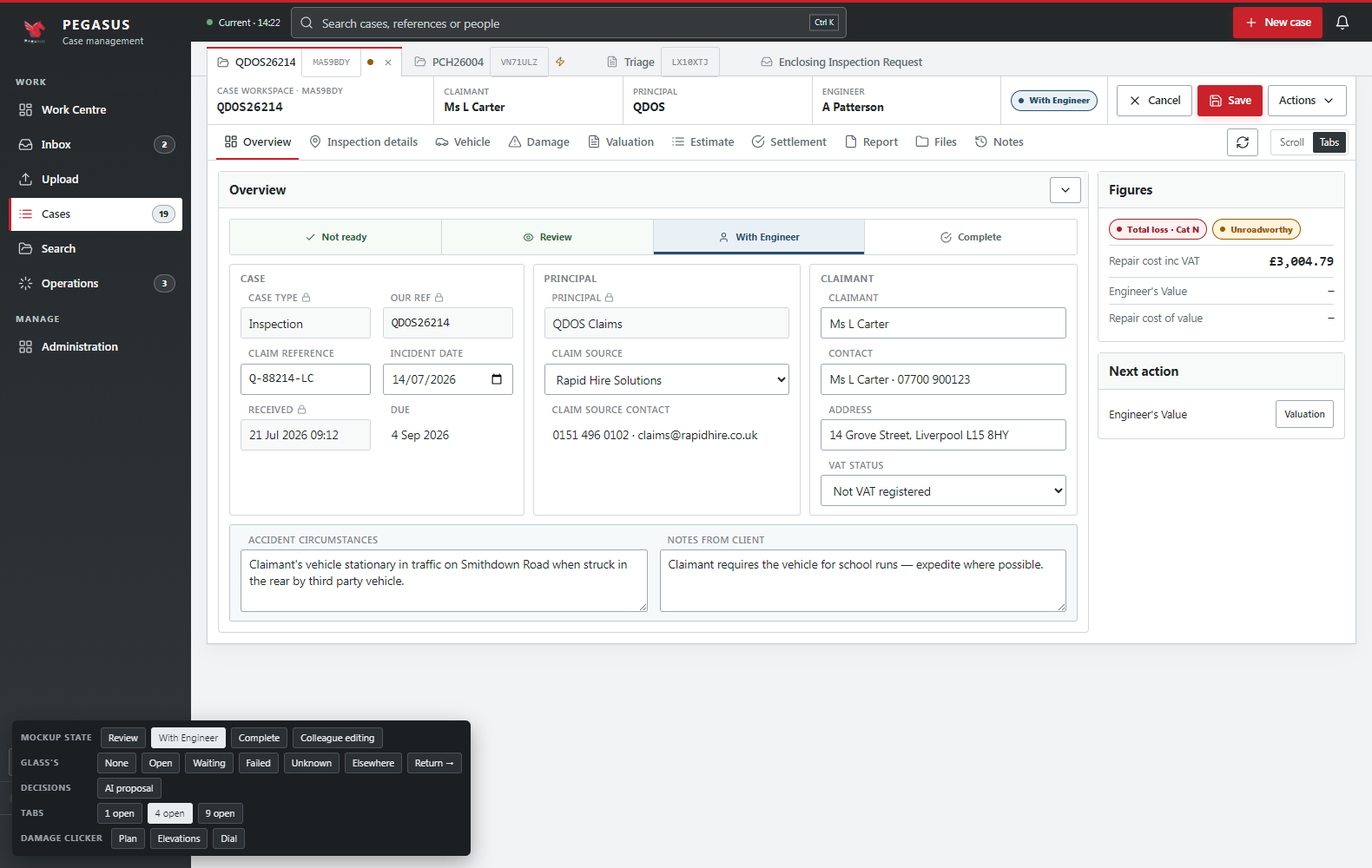
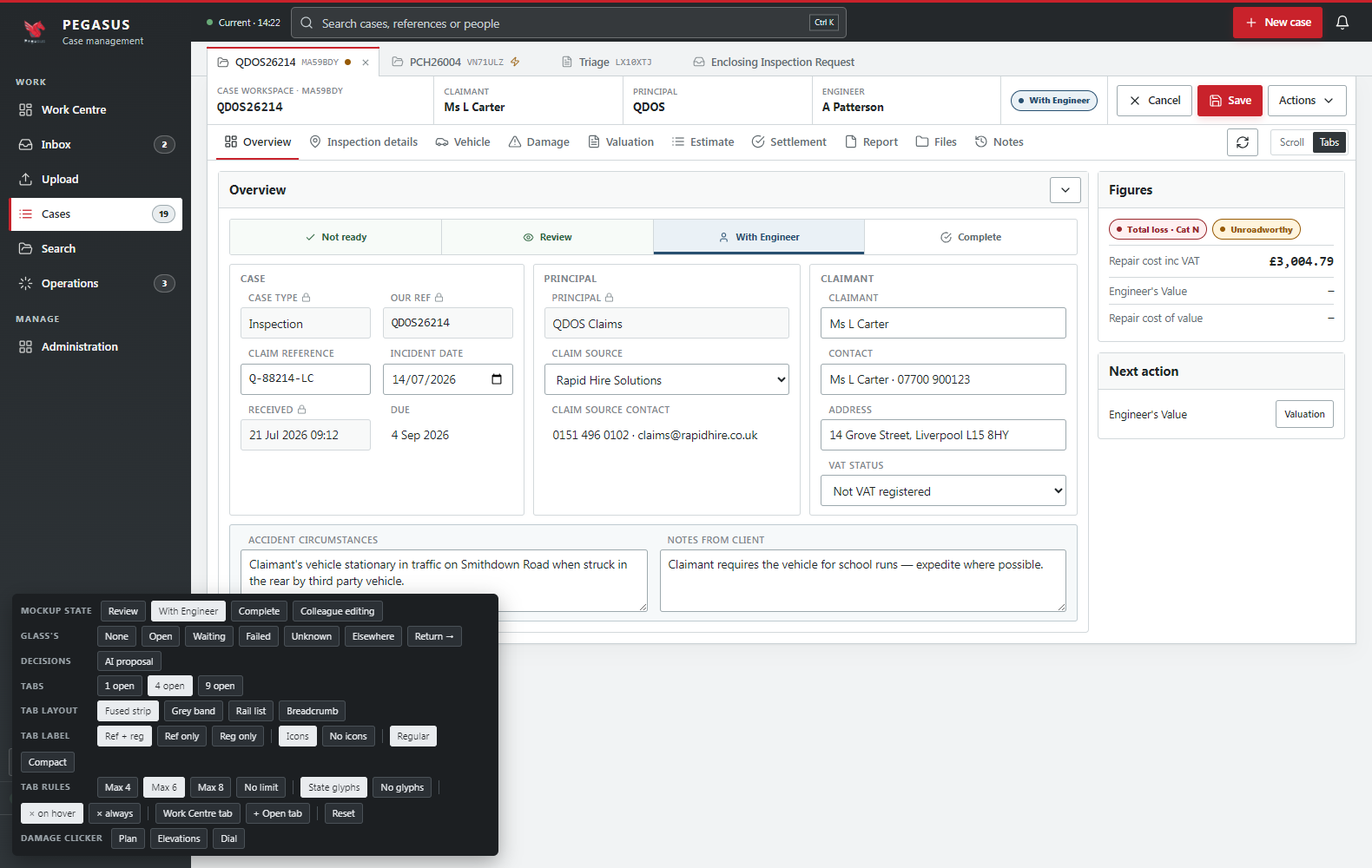
v26 mockup: every tab-strip decision as a strip variable
Layout (fused, grey band, rail list, breadcrumb), label, icons, density,
visible count, state glyphs, close behaviour, Work Centre and Open tabs
are options on the mockup strip of both files, shared through storage
and reachable as ?tabopt=. Self-checks 252/252 and 124/124.

Claude-Session: https://claude.ai/code/session_01UkoyKWmZrjt4TF9nQwnQSs

Changed region(s): [[0.0, 0.682, 0.3722, 1.0], [0.2171, 0.062, 0.6823, 0.093]]

diff --git a/case-workspace-v25-mockup/pegasus_case_workspace_v26.html b/case-workspace-v25-mockup/pegasus_case_workspace_v26.html
@@ -87,7 +87,7 @@ strong{font-weight:650}
 .workspace-tab.is-active::before,.workspace-tab[aria-current="page"]::before{content:"";position:absolute;left:-1px;right:-1px;top:-1px;height:2px;background:var(--red);border-radius:4px 4px 0 0}
 .workspace-tab>.icon{width:14px;height:14px;flex:none;opacity:.75}
 .workspace-tab .ref{font-weight:600;overflow:hidden;text-overflow:ellipsis}
-.workspace-tab .sub{font:500 11px var(--mono);color:var(--quiet);overflow:hidden;text-overflow:ellipsis}
+.workspace-tab .reg{font:500 11px var(--mono);color:var(--quiet);overflow:hidden;text-overflow:ellipsis}
 .workspace-tab .st{flex:none}
 .workspace-tab .st--dirty{width:7px;height:7px;border-radius:50%;background:var(--amber)}
 .workspace-tab .st--glass{width:12px;height:12px;color:var(--amber);opacity:1}
@@ -137,6 +137,67 @@ body.has-viewer .mock{display:none}
 .th .th-view{position:absolute;top:4px;right:26px;width:17px;height:17px;border-radius:3px;border:0;background:rgba(255,255,255,.92);color:var(--ink);display:none;place-items:center;padding:0;cursor:pointer}
 .th .th-view .icon{width:11px;height:11px}
 body.is-editing #thumbs .th:hover .th-view{display:grid}
+
+/* ---- Tab strip options (mockup variables) ---- */
+.workspace-tabs[data-place="band"]{background:var(--surface-3);border-bottom:1px solid var(--line)}
+.workspace-tabs[data-place="band"] .workspace-tab{background:var(--surface-2);border-color:var(--line);color:var(--muted)}
+.workspace-tabs[data-place="band"] .workspace-tab.is-active,.workspace-tabs[data-place="band"] .workspace-tab[aria-current="page"]{background:var(--surface);border-top:2px solid var(--red);margin-bottom:0;height:33px}
+.workspace-tabs[data-place="band"] .workspace-tab.is-active::before,.workspace-tabs[data-place="band"] .workspace-tab[aria-current="page"]::before{display:none}
+body[data-tabs-place="band"] .app-main,body[data-tabs-place="crumb"] .app-main,body[data-tabs-place="rail"] .app-main{padding-top:var(--page-pad)}
+body[data-tabs-place="band"] .record,body[data-tabs-place="crumb"] .record,body[data-tabs-place="rail"] .record{border-top:1px solid #cbd2d5}
+.workspace-tabs[data-density="compact"]{padding-top:9px}
+.workspace-tabs[data-density="compact"] .workspace-tab{height:27px;font-size:12px;padding:0 4px 0 9px;gap:6px}
+.workspace-tabs[data-density="compact"] .workspace-tab.is-active,.workspace-tabs[data-density="compact"] .workspace-tab[aria-current="page"]{height:28px}
+.workspace-tabs[data-density="compact"] .workspace-tab .reg{font-size:10.5px}
+.workspace-tabs[data-close="always"] .workspace-tab .tab-close{visibility:visible}
+.workspace-tab--open{color:var(--quiet)}
+.rail-open{margin:0 8px 6px 14px;display:grid;gap:1px}
+.rail-open[hidden]{display:none}
+.rail-open a{display:grid;grid-template-columns:14px minmax(0,1fr) auto auto;column-gap:6px;align-items:center;padding:4px 6px 4px 8px;border-radius:var(--radius);color:var(--nav-muted);font-size:12px;border-left:2px solid transparent;min-width:0;line-height:1.25}
+.rail-open a>.icon{grid-column:1;grid-row:1/3}
+.rail-open .ref{grid-column:2;grid-row:1}
+.rail-open .reg{grid-column:2;grid-row:2;font-size:10.5px}
+.rail-open a>.st{grid-column:3;grid-row:1/3;margin-left:0}
+.rail-open .tab-close{grid-column:4;grid-row:1/3}
+.rail-open a:hover{background:rgba(255,255,255,.08);color:var(--nav-text);text-decoration:none}
+.rail-open a.is-active,.rail-open a[aria-current="page"]{color:var(--nav-text);background:rgba(255,255,255,.1);border-left-color:var(--red)}
+.rail-open .icon{width:12px;height:12px;opacity:.7;flex:none}
+.rail-open .ref{font-weight:600;overflow:hidden;text-overflow:ellipsis;white-space:nowrap}
+.rail-open .reg{font:500 10.5px var(--mono);opacity:.7;white-space:nowrap}
+.rail-open .st{margin-left:auto;flex:none}
+.rail-open .st--dirty{width:7px;height:7px;border-radius:50%;background:#e0a144}
+.rail-open .st--glass{color:#e0a144;opacity:1}
+.rail-open .st--held{opacity:.8}
+.rail-open .tab-close{display:grid;place-items:center;width:18px;height:18px;border:0;background:transparent;border-radius:2px;color:var(--nav-muted);padding:0;visibility:hidden;cursor:pointer;flex:none}
+.rail-open a:hover .tab-close,.rail-open a.is-active .tab-close,.rail-open a[aria-current="page"] .tab-close{visibility:visible}
+.rail-open .tab-close .icon{width:11px;height:11px;opacity:1}
+.rail-open .tab-close:hover{background:rgba(255,255,255,.15);color:#fff}
+.rail-collapsed .rail-open{display:none}
+.workspace-tabs[data-place="crumb"]{align-items:center;padding:0 var(--page-pad);background:var(--bg);border-bottom:1px solid var(--line)}
+.crumb{display:flex;align-items:center;gap:8px;font-size:13px;color:var(--muted)}
+.crumb>a{color:var(--muted)}
+.crumb>a:hover{color:var(--ink)}
+.crumb .sep{color:var(--quiet)}
+.crumb .count{font-size:11px;color:var(--quiet);margin-left:4px}
+.crumb-menu{position:relative}
+.crumb-menu summary{list-style:none;display:flex;align-items:center;gap:7px;cursor:pointer;color:var(--ink);padding:4px 8px;border-radius:var(--radius);border:1px solid transparent}
+.crumb-menu summary::-webkit-details-marker{display:none}
+.crumb-menu summary:hover,.crumb-menu[open] summary{border-color:var(--line);background:var(--surface)}
+.crumb-menu summary .ref{font-weight:600}
+.crumb-menu summary .reg{font:500 11px var(--mono);color:var(--quiet)}
+.crumb-menu summary>.icon{width:13px;height:13px;color:var(--quiet)}
+.crumb-menu summary .st--dirty{width:7px;height:7px;border-radius:50%;background:var(--amber);display:inline-block}
+.crumb-menu summary .st--glass{width:12px;height:12px;color:var(--amber)}
+.crumb-menu summary .st--held{width:12px;height:12px;color:var(--quiet)}
+.crumb-menu .menu{position:absolute;top:34px;left:0;min-width:260px;background:var(--surface);border:1px solid var(--line);border-radius:var(--radius-lg);box-shadow:var(--shadow);padding:4px;z-index:40}
+.crumb-menu .menu a,.tabs-more .menu a{display:flex;align-items:center;gap:8px;padding:7px 9px;border-radius:var(--radius);color:var(--ink);font-size:12.5px;white-space:nowrap}
+.crumb-menu .menu a:hover{background:var(--surface-2);text-decoration:none}
+.crumb-menu .menu .icon,.tabs-more .menu .icon{width:14px;height:14px;color:var(--quiet)}
+.crumb-menu .menu .st,.tabs-more .menu .st{margin-left:auto}
+.crumb-menu .menu .st--dirty,.tabs-more .menu .st--dirty{width:7px;height:7px;border-radius:50%;background:var(--amber)}
+.crumb-menu .menu .st--glass,.tabs-more .menu .st--glass{color:var(--amber)}
+.mock .mrow .sep{width:1px;height:16px;background:#4a5157;margin:0 2px}
+.mock .mrow b.sub{min-width:0;margin-left:2px;color:#7d878c}
 .app-main{min-width:0;flex:1;padding:var(--page-pad);padding-bottom:50px}
 .content{width:min(100%,var(--content-max));margin-inline:auto;min-width:0}
 
@@ -990,6 +1051,9 @@ body.is-editing .case-section:not(.is-locked) .cluster.calc-only{display:flex}
   <div class="mrow"><b>Glass's</b><button data-g="none" class="on" onclick="setGlass('none')">None</button><button data-g="open" onclick="setGlass('open')">Open</button><button data-g="waiting" onclick="setGlass('waiting')">Waiting</button><button data-g="failed" onclick="setGlass('failed')">Failed</button><button data-g="unknown" onclick="setGlass('unknown')">Unknown</button><button data-g="elsewhere" onclick="setGlass('elsewhere')">Elsewhere</button><button onclick="glassReturn()">Return →</button></div>
   <div class="mrow"><b>Decisions</b><button id="mockProp" onclick="toggleProposal()">AI proposal</button></div>
   <div class="mrow"><b>Tabs</b><button data-tabs="1" onclick="mockTabs(1)">1 open</button><button data-tabs="4" onclick="mockTabs(4)">4 open</button><button data-tabs="9" onclick="mockTabs(9)">9 open</button></div>
+  <div class="mrow"><b>Tab layout</b><button data-o="place:fused" onclick="setTabOpt('place','fused')">Fused strip</button><button data-o="place:band" onclick="setTabOpt('place','band')">Grey band</button><button data-o="place:rail" onclick="setTabOpt('place','rail')">Rail list</button><button data-o="place:crumb" onclick="setTabOpt('place','crumb')">Breadcrumb</button></div>
+  <div class="mrow"><b>Tab label</b><button data-o="label:both" onclick="setTabOpt('label','both')">Ref + reg</button><button data-o="label:ref" onclick="setTabOpt('label','ref')">Ref only</button><button data-o="label:reg" onclick="setTabOpt('label','reg')">Reg only</button><span class="sep"></span><button data-o="icons:1" onclick="setTabOpt('icons','1')">Icons</button><button data-o="icons:0" onclick="setTabOpt('icons','0')">No icons</button><span class="sep"></span><button data-o="density:regular" onclick="setTabOpt('density','regular')">Regular</button><button data-o="density:compact" onclick="setTabOpt('density','compact')">Compact</button></div>
+  <div class="mrow"><b>Tab rules</b><button data-o="max:4" onclick="setTabOpt('max','4')">Max 4</button><button data-o="max:6" onclick="setTabOpt('max','6')">Max 6</button><button data-o="max:8" onclick="setTabOpt('max','8')">Max 8</button><button data-o="max:0" onclick="setTabOpt('max','0')">No limit</button><span class="sep"></span><button data-o="glyphs:1" onclick="setTabOpt('glyphs','1')">State glyphs</button><button data-o="glyphs:0" onclick="setTabOpt('glyphs','0')">No glyphs</button><span class="sep"></span><button data-o="close:hover" onclick="setTabOpt('close','hover')">× on hover</button><button data-o="close:always" onclick="setTabOpt('close','always')">× always</button><span class="sep"></span><button data-o="wc:1" onclick="setTabOpt('wc',+TABOPT.wc?0:1)">Work Centre tab</button><button data-o="open:1" onclick="setTabOpt('open',+TABOPT.open?0:1)">+ Open tab</button><span class="sep"></span><button onclick="resetTabOpt()">Reset</button></div>
   <div class="mrow"><b>Damage clicker</b><button data-dv="plan" onclick="setDamageVariant('plan')">Plan</button><button data-dv="side" onclick="setDamageVariant('side')">Elevations</button><button data-dv="dial" onclick="setDamageVariant('dial')">Dial</button></div>
 </div>
 <div class="viewer" id="viewer" hidden role="dialog" aria-modal="true" aria-label="Image viewer" tabindex="-1">
@@ -1325,7 +1389,7 @@ function decTouch(k){REVIEWED[k]=true;}
 function dismissable(){document.querySelectorAll('.notice,#staleBar').forEach(n=>{if(n.dataset.dismiss)return;n.dataset.dismiss='1';const b=document.createElement('button');b.type='button';b.className='dismiss';b.setAttribute('aria-label','Dismiss');b.innerHTML='<svg class="icon"><use href="#icon-x"/></svg>';b.onclick=()=>{n.hidden=true;n.classList.remove('show');measure();};n.appendChild(b);});}
 
 /* ================= query-string presets (screenshots only) ================= */
-function applyQuery(){const q=new URLSearchParams(location.search);if(q.get('state'))setState(q.get('state'));if(q.get('layout'))setLayout(q.get('layout'),true);if(q.get('edit')==='1')startEdit();if(q.get('ev')==='1')applyAdj();if(q.get('proposal')==='1')toggleProposal();if(q.get('glass')==='return')glassReturn();else if(q.get('glass'))setGlass(q.get('glass'));if(q.get('closeopen')==='1'){const c=$('glassClose');if(c)c.open=true;}if(q.get('expand')==='1')toggleExpand();if(q.get('collapse'))q.get('collapse').split(',').forEach(k=>{const b=document.querySelector('#section-'+k+' .sec-collapse');if(b)toggleSection(b);});if(q.get('tabs'))mockTabs(+q.get('tabs'));if(q.get('clicker'))setDamageVariant(q.get('clicker'));if(q.get('viewer'))openViewer(+q.get('viewer'));if(q.get('section'))jumpTo(q.get('section'));}
+function applyQuery(){const q=new URLSearchParams(location.search);if(q.get('state'))setState(q.get('state'));if(q.get('layout'))setLayout(q.get('layout'),true);if(q.get('edit')==='1')startEdit();if(q.get('ev')==='1')applyAdj();if(q.get('proposal')==='1')toggleProposal();if(q.get('glass')==='return')glassReturn();else if(q.get('glass'))setGlass(q.get('glass'));if(q.get('closeopen')==='1'){const c=$('glassClose');if(c)c.open=true;}if(q.get('expand')==='1')toggleExpand();if(q.get('collapse'))q.get('collapse').split(',').forEach(k=>{const b=document.querySelector('#section-'+k+' .sec-collapse');if(b)toggleSection(b);});if(q.get('tabs'))mockTabs(+q.get('tabs'));if(q.get('tabopt'))q.get('tabopt').split(',').forEach(kv=>{const [k,v]=kv.split(':');setTabOpt(k,v);});if(q.get('clicker'))setDamageVariant(q.get('clicker'));if(q.get('viewer'))openViewer(+q.get('viewer'));if(q.get('section'))jumpTo(q.get('section'));}
 
 function shellSearch(f){window.location.href='pegasus_shell_v26.html#/search?ref='+encodeURIComponent(f.querySelector('input').value);return false;}
 /* ---- synthetic evidence previews (mockup only: there are no real files) ---- */
@@ -1357,17 +1421,36 @@ $('viewer').addEventListener('click',e=>{if(e.target===$('viewer'))closeViewer()
 /* ================= working set (tabs) ================= */
 const SHELL_PAGE='pegasus_shell_v26.html';
 const ME={id:'c99',kind:'case',ref:'QDOS26214',sub:'MA59BDY',route:'/cases/c99'};
-const TAB_ICON={case:'folder-open',triage:'file-text',unidentified:'alert-circle',image:'image',message:'inbox'};
+const TAB_ICON={case:'folder-open',triage:'file-text',unidentified:'alert-circle',image:'image',message:'inbox',wc:'layout-dashboard',open:'plus'};
+const TABOPT_DEFAULT={place:'fused',label:'both',max:6,glyphs:1,close:'hover',wc:0,open:0,density:'regular',icons:1};
+let TABOPT=Object.assign({},TABOPT_DEFAULT);try{Object.assign(TABOPT,JSON.parse(localStorage.getItem('v26.tabopt')||'{}'));}catch{}
+function setTabOpt(k,v){TABOPT[k]=v;localStorage.setItem('v26.tabopt',JSON.stringify(TABOPT));renderTabs();}
+function resetTabOpt(){TABOPT=Object.assign({},TABOPT_DEFAULT);localStorage.removeItem('v26.tabopt');renderTabs();}
 function readOpen(){try{const a=JSON.parse(localStorage.getItem('v26.open')||'null');if(Array.isArray(a)&&a.length)return a;}catch{}return [ME];}
 function writeOpen(a){localStorage.setItem('v26.open',JSON.stringify(a));}
 function tabState(t){if(t.id!==ME.id)return t.state||'';if(STATE==='colleague')return 'held';if(EDITING)return 'dirty';if(GLASS.state==='open'||GLASS.state==='waiting')return 'glass';return '';}
-function renderTabs(){let a=readOpen();if(!a.some(t=>t.id===ME.id))a=[ME,...a];const max=6;const shown=a.slice(0,max),more=a.slice(max);
-  const st=t=>{const s=tabState(t);return s==='dirty'?'<i class="st st--dirty" title="Unsaved changes"></i>':s==='glass'?'<svg class="icon st st--glass"><title>Glass\'s open</title><use href="#icon-zap"/></svg>':s==='held'?'<svg class="icon st st--held"><title>Held elsewhere</title><use href="#icon-lock"/></svg>':'';};
-  const ic=t=>`<svg class="icon"><use href="#icon-${TAB_ICON[t.kind]||'folder'}"/></svg>`;
-  const tab=t=>`<a class="workspace-tab${t.id===ME.id?' is-active':''}" href="${t.id===ME.id?'#':SHELL_PAGE+'#'+t.route}" data-id="${t.id}"${t.id===ME.id?' aria-current="page"':''}>${ic(t)}<span class="ref">${t.ref}</span>${t.sub?`<span class="sub">${t.sub}</span>`:''}${st(t)}<button type="button" class="tab-close" onclick="closeTab('${t.id}',event)" aria-label="Close ${t.ref}"><svg class="icon"><use href="#icon-x"/></svg></button></a>`;
-  $('tabs').innerHTML=shown.map(tab).join('')+(more.length?`<details class="tabs-more"><summary>${more.length} more<svg class="icon"><use href="#icon-chevron-down"/></svg></summary><div class="menu">${more.map(t=>`<a href="${SHELL_PAGE}#${t.route}" data-id="${t.id}">${ic(t)}<span>${t.ref}${t.sub?' · '+t.sub:''}</span></a>`).join('')}</div></details>`:'');}
+function tabGlyph(t){if(!+TABOPT.glyphs)return '';const s=tabState(t);return s==='dirty'?'<i class="st st--dirty" title="Unsaved changes"></i>':s==='glass'?'<svg class="icon st st--glass"><title>Glass\'s open</title><use href="#icon-zap"/></svg>':s==='held'?'<svg class="icon st st--held"><title>Held elsewhere</title><use href="#icon-lock"/></svg>':'';}
+function tabIcon(t){return +TABOPT.icons?`<svg class="icon"><use href="#icon-${TAB_ICON[t.kind]||'folder'}"/></svg>`:'';}
+function tabText(t){const l=TABOPT.label;const ref=`<span class="ref">${t.ref}</span>`,sub=t.sub?`<span class="reg">${t.sub}</span>`:'';if(t.kind==='wc'||t.kind==='open')return ref;if(l==='ref')return ref;if(l==='reg')return t.sub?`<span class="ref">${t.sub}</span>`:ref;return ref+sub;}
+function tabHref(t){return t.id===ME.id?'#':SHELL_PAGE+'#'+t.route;}
+function renderTabs(){let a=readOpen();if(!a.some(t=>t.id===ME.id))a=[ME,...a];
+  const nav=$('tabs'),shell=document.querySelector('.app-shell');const place=TABOPT.place;
+  nav.dataset.place=place;nav.dataset.density=TABOPT.density;nav.dataset.close=TABOPT.close;document.body.dataset.tabsPlace=place;
+  shell.style.setProperty('--tabs-h',place==='rail'?'0px':'');nav.hidden=place==='rail';
+  let rail=$('railOpen');if(!rail){rail=document.createElement('div');rail.className='rail-open';rail.id='railOpen';const cases=document.querySelector('.app-rail .nav-link[href$="#/cases"]');if(cases)cases.insertAdjacentElement('afterend',rail);}
+  rail.hidden=place!=='rail';
+  const max=+TABOPT.max||Infinity;const shown=a.slice(0,max),more=a.slice(max);
+  const menuItems=list=>list.map(t=>`<a href="${tabHref(t)}" data-id="${t.id}">${tabIcon(t)}<span>${t.ref}${t.sub?' · '+t.sub:''}</span>${tabGlyph(t)}</a>`).join('');
+  if(place==='rail'){rail.innerHTML=a.map(t=>`<a class="${t.id===ME.id?'is-active':''}" href="${tabHref(t)}" data-id="${t.id}">${tabIcon(t)}${tabText(t)}${tabGlyph(t)}<button type="button" class="tab-close" onclick="closeTab('${t.id}',event)" aria-label="Close ${t.ref}"><svg class="icon"><use href="#icon-x"/></svg></button></a>`).join('');nav.innerHTML='';measureSafe();return;}
+  if(place==='crumb'){nav.innerHTML=`<div class="crumb"><a href="${SHELL_PAGE}#/cases">Cases</a><span class="sep">›</span><details class="crumb-menu"><summary>${tabIcon(ME)}${tabText(ME)}${tabGlyph(ME)}<svg class="icon"><use href="#icon-chevron-down"/></svg></summary><div class="menu">${menuItems(a)}</div></details>${a.length>1?`<span class="count">${a.length} open</span>`:''}</div>`;measureSafe();return;}
+  const wc=+TABOPT.wc?`<a class="workspace-tab" href="${SHELL_PAGE}#/" data-id="wc">${tabIcon({kind:'wc'})}<span class="ref">Work Centre</span></a>`:'';
+  const open=+TABOPT.open?`<a class="workspace-tab workspace-tab--open" href="${SHELL_PAGE}#/cases" data-id="open">${tabIcon({kind:'open'})}<span class="ref">Open</span></a>`:'';
+  const tab=t=>`<a class="workspace-tab${t.id===ME.id?' is-active':''}" href="${tabHref(t)}" data-id="${t.id}"${t.id===ME.id?' aria-current="page"':''}>${tabIcon(t)}${tabText(t)}${tabGlyph(t)}<button type="button" class="tab-close" onclick="closeTab('${t.id}',event)" aria-label="Close ${t.ref}"><svg class="icon"><use href="#icon-x"/></svg></button></a>`;
+  nav.innerHTML=wc+shown.map(tab).join('')+(more.length?`<details class="tabs-more"><summary>${more.length} more<svg class="icon"><use href="#icon-chevron-down"/></svg></summary><div class="menu">${menuItems(more)}</div></details>`:'')+open;
+  document.querySelectorAll('.mock [data-o]').forEach(b=>{const [k,v]=b.dataset.o.split(':');b.classList.toggle('on',String(TABOPT[k])===v);});measureSafe();}
+function measureSafe(){try{if(typeof measure==='function')measure();}catch{}}
 function closeTab(id,e){if(e){e.preventDefault();e.stopPropagation();}const a=readOpen().filter(t=>t.id!==id);writeOpen(a);if(id===ME.id){window.location.href=SHELL_PAGE+'#/';return;}renderTabs();}
-$('tabs').addEventListener('auxclick',e=>{if(e.button!==1)return;const t=e.target.closest('.workspace-tab');if(t)closeTab(t.dataset.id,e);});
+$('tabs').addEventListener('auxclick',e=>{if(e.button!==1)return;const t=e.target.closest('.workspace-tab[data-id]');if(t&&t.dataset.id!=='wc'&&t.dataset.id!=='open')closeTab(t.dataset.id,e);});
 const MOCK_TABS=[ME,{id:'c1',kind:'case',ref:'PCH26004',sub:'VN71ULZ',route:'/cases/c1',state:'glass'},{id:'t2',kind:'triage',ref:'Triage',sub:'LX10XTJ',route:'/triage/t2'},{id:'m4',kind:'message',ref:'Enclosing Inspection Request',sub:'',route:'/inbox/m4'},{id:'c5',kind:'case',ref:'PCH26001',sub:'HF26OMK',route:'/cases/c5',state:'held'},{id:'u1',kind:'unidentified',ref:'U34',sub:'',route:'/unidentified/u1'},{id:'ic1',kind:'image',ref:'WR68PBY-01',sub:'',route:'/images/ic1'},{id:'c3',kind:'case',ref:'QDOS261786',sub:'SD74CXS',route:'/cases/c3'},{id:'c7',kind:'case',ref:'QDOS26009',sub:'AC20 PER',route:'/cases/c7'}];
 function mockTabs(n){writeOpen(MOCK_TABS.slice(0,n));document.querySelectorAll('.mock [data-tabs]').forEach(b=>b.classList.toggle('on',+b.dataset.tabs===n));renderTabs();}
 ['startEdit','endEdit','setState','setGlass'].forEach(n=>{const f=window[n];window[n]=function(){const r=f.apply(this,arguments);renderTabs();return r;};});

diff --git a/case-workspace-v25-mockup/pegasus_shell_v26.html b/case-workspace-v25-mockup/pegasus_shell_v26.html
@@ -634,7 +634,7 @@ code, .mono { font-family: var(--mono); font-size: .95em; }
 .workspace-tab[aria-current="page"]::before { content: ""; position: absolute; left: -1px; right: -1px; top: -1px; height: 2px; background: var(--red); border-radius: 4px 4px 0 0; }
 .workspace-tab > .icon { width: 14px; height: 14px; flex: none; opacity: .75; }
 .workspace-tab .ref { font-weight: 600; overflow: hidden; text-overflow: ellipsis; }
-.workspace-tab .sub { font: 500 11px var(--mono); color: var(--quiet); overflow: hidden; text-overflow: ellipsis; }
+.workspace-tab .reg { font: 500 11px var(--mono); color: var(--quiet); overflow: hidden; text-overflow: ellipsis; }
 .workspace-tab .st { flex: none; }
 .workspace-tab .st--dirty { width: 7px; height: 7px; border-radius: 50%; background: var(--amber); }
 .workspace-tab .st--glass { width: 12px; height: 12px; color: var(--amber); opacity: 1; }
@@ -678,6 +678,68 @@ code, .mono { font-family: var(--mono); font-size: .95em; }
 .dialog--viewer .viewer-strip > button.on { opacity: 1; border-color: #fff; }
 .dialog--viewer .viewer-strip > button:hover { opacity: .9; }
 body:has(.dialog--viewer) .mock { display: none; }
+
+/* ---- Tab strip options (mockup variables) ---- */
+.workspace-tabs[data-place="band"]{background:var(--surface-3);border-bottom:1px solid var(--line)}
+.workspace-tabs[data-place="band"] .workspace-tab{background:var(--surface-2);border-color:var(--line);color:var(--muted)}
+.workspace-tabs[data-place="band"] .workspace-tab.is-active,.workspace-tabs[data-place="band"] .workspace-tab[aria-current="page"]{background:var(--surface);border-top:2px solid var(--red);margin-bottom:0;height:33px}
+.workspace-tabs[data-place="band"] .workspace-tab.is-active::before,.workspace-tabs[data-place="band"] .workspace-tab[aria-current="page"]::before{display:none}
+body[data-tabs-place="band"] .app-main,body[data-tabs-place="crumb"] .app-main,body[data-tabs-place="rail"] .app-main{padding-top:var(--page-pad)}
+body[data-tabs-place="band"] .record,body[data-tabs-place="crumb"] .record,body[data-tabs-place="rail"] .record{border-top:1px solid #cbd2d5}
+.workspace-tabs[data-density="compact"]{padding-top:9px}
+.workspace-tabs[data-density="compact"] .workspace-tab{height:27px;font-size:12px;padding:0 4px 0 9px;gap:6px}
+.workspace-tabs[data-density="compact"] .workspace-tab.is-active,.workspace-tabs[data-density="compact"] .workspace-tab[aria-current="page"]{height:28px}
+.workspace-tabs[data-density="compact"] .workspace-tab .reg{font-size:10.5px}
+.workspace-tabs[data-close="always"] .workspace-tab .tab-close{visibility:visible}
+.workspace-tab--open{color:var(--quiet)}
+.rail-open{margin:0 8px 6px 14px;display:grid;gap:1px}
+.rail-open[hidden]{display:none}
+.rail-open a{display:grid;grid-template-columns:14px minmax(0,1fr) auto auto;column-gap:6px;align-items:center;padding:4px 6px 4px 8px;border-radius:var(--radius);color:var(--nav-muted);font-size:12px;border-left:2px solid transparent;min-width:0;line-height:1.25}
+.rail-open a>.icon{grid-column:1;grid-row:1/3}
+.rail-open .ref{grid-column:2;grid-row:1}
+.rail-open .reg{grid-column:2;grid-row:2;font-size:10.5px}
+.rail-open a>.st{grid-column:3;grid-row:1/3;margin-left:0}
+.rail-open .tab-close{grid-column:4;grid-row:1/3}
+.rail-open a:hover{background:rgba(255,255,255,.08);color:var(--nav-text);text-decoration:none}
+.rail-open a.is-active,.rail-open a[aria-current="page"]{color:var(--nav-text);background:rgba(255,255,255,.1);border-left-color:var(--red)}
+.rail-open .icon{width:12px;height:12px;opacity:.7;flex:none}
+.rail-open .ref{font-weight:600;overflow:hidden;text-overflow:ellipsis;white-space:nowrap}
+.rail-open .reg{font:500 10.5px var(--mono);opacity:.7;white-space:nowrap}
+.rail-open .st{margin-left:auto;flex:none}
+.rail-open .st--dirty{width:7px;height:7px;border-radius:50%;background:#e0a144}
+.rail-open .st--glass{color:#e0a144;opacity:1}
+.rail-open .st--held{opacity:.8}
+.rail-open .tab-close{display:grid;place-items:center;width:18px;height:18px;border:0;background:transparent;border-radius:2px;color:var(--nav-muted);padding:0;visibility:hidden;cursor:pointer;flex:none}
+.rail-open a:hover .tab-close,.rail-open a.is-active .tab-close,.rail-open a[aria-current="page"] .tab-close{visibility:visible}
+.rail-open .tab-close .icon{width:11px;height:11px;opacity:1}
+.rail-open .tab-close:hover{background:rgba(255,255,255,.15);color:#fff}
+.rail-collapsed .rail-open{display:none}
+.app-shell[data-tabs-place="rail"] { --tabs-h: 0px; }
+.workspace-tabs[data-place="crumb"]{align-items:center;padding:0 var(--page-pad);background:var(--bg);border-bottom:1px solid var(--line)}
+.crumb{display:flex;align-items:center;gap:8px;font-size:13px;color:var(--muted)}
+.crumb>a{color:var(--muted)}
+.crumb>a:hover{color:var(--ink)}
+.crumb .sep{color:var(--quiet)}
+.crumb .count{font-size:11px;color:var(--quiet);margin-left:4px}
+.crumb-menu{position:relative}
+.crumb-menu summary{list-style:none;display:flex;align-items:center;gap:7px;cursor:pointer;color:var(--ink);padding:4px 8px;border-radius:var(--radius);border:1px solid transparent}
+.crumb-menu summary::-webkit-details-marker{display:none}
+.crumb-menu summary:hover,.crumb-menu[open] summary{border-color:var(--line);background:var(--surface)}
+.crumb-menu summary .ref{font-weight:600}
+.crumb-menu summary .reg{font:500 11px var(--mono);color:var(--quiet)}
+.crumb-menu summary>.icon{width:13px;height:13px;color:var(--quiet)}
+.crumb-menu summary .st--dirty{width:7px;height:7px;border-radius:50%;background:var(--amber);display:inline-block}
+.crumb-menu summary .st--glass{width:12px;height:12px;color:var(--amber)}
+.crumb-menu summary .st--held{width:12px;height:12px;color:var(--quiet)}
+.crumb-menu .menu{position:absolute;top:34px;left:0;min-width:260px;background:var(--surface);border:1px solid var(--line);border-radius:var(--radius-lg);box-shadow:var(--shadow);padding:4px;z-index:40}
+.crumb-menu .menu a,.tabs-more .menu a{display:flex;align-items:center;gap:8px;padding:7px 9px;border-radius:var(--radius);color:var(--ink);font-size:12.5px;white-space:nowrap}
+.crumb-menu .menu a:hover{background:var(--surface-2);text-decoration:none}
+.crumb-menu .menu .icon,.tabs-more .menu .icon{width:14px;height:14px;color:var(--quiet)}
+.crumb-menu .menu .st,.tabs-more .menu .st{margin-left:auto}
+.crumb-menu .menu .st--dirty,.tabs-more .menu .st--dirty{width:7px;height:7px;border-radius:50%;background:var(--amber)}
+.crumb-menu .menu .st--glass,.tabs-more .menu .st--glass{color:var(--amber)}
+.mock .mrow .sep{width:1px;height:16px;background:#4a5157;margin:0 2px}
+.mock .mrow b.sub{min-width:0;margin-left:2px;color:#7d878c}
 
 </style>
 </head>
@@ -2879,7 +2941,9 @@ ICONS.image = ICONS.image || 'M19 3H5a2 2 0 0 0-2 2v14a2 2 0 0 0 2 2h14a2 2 0 0 
 ICONS.mail = ICONS.mail || 'M4 4h16a2 2 0 0 1 2 2v12a2 2 0 0 1-2 2H4a2 2 0 0 1-2-2V6a2 2 0 0 1 2-2zM22 7l-10 7L2 7';
 ICONS['zoom-in'] = ICONS['zoom-in'] || 'M11 19a8 8 0 1 0 0-16 8 8 0 0 0 0 16zM21 21l-4.35-4.35M11 8v6M8 11h6';
 ICONS.download = ICONS.download || 'M21 15v4a2 2 0 0 1-2 2H5a2 2 0 0 1-2-2v-4M7 10l5 5 5-5M12 15V3';
-const TAB_ICON = { case: 'folder', triage: 'clipboard-list', unidentified: 'alert-circle', image: 'image', message: 'mail' };
+const TAB_ICON = { case: 'folder', triage: 'clipboard-list', unidentified: 'alert-circle', image: 'image', message: 'mail', wc: 'layout-dashboard', open: 'plus' };
+const TABOPT_DEFAULT = { place: 'fused', label: 'both', max: 6, glyphs: 1, close: 'hover', wc: 0, open: 0, density: 'regular', icons: 1 };
+let TABOPT = Object.assign({}, TABOPT_DEFAULT); try { Object.assign(TABOPT, JSON.parse(localStorage.getItem('v26.tabopt') || '{}')); } catch {}
 S.tabState = {};
 function tabEntry(id) {
   let e = null;
@@ -2895,21 +2959,45 @@ function persistOpen() { try { localStorage.setItem('v26.open', JSON.stringify(o
 openRecord = function (id) { if (!S.openRecords.includes(id)) S.openRecords = [...S.openRecords, id].slice(-12); persistOpen(); };
 try { const a = JSON.parse(localStorage.getItem('v26.open') || '[]'); if (Array.isArray(a) && a.length) { S.openRecords = a.map(t => t.id); a.forEach(t => { if (t.state) S.tabState[t.id] = t.state; }); } } catch {}
 { const a = renderTriage, b = renderUnidentified, c = renderImageRecord, d = renderMessage; renderTriage = id => { openRecord(id); return a(id); }; renderUnidentified = id => { openRecord(id); return b(id); }; renderImageRecord = id => { openRecord(id); return c(id); }; renderMessage = id => { openRecord(id); return d(id); }; }
+const tabGlyph = t => !+TABOPT.glyphs ? '' : t.state === 'dirty' ? '<i class="st st--dirty" title="Unsaved changes"></i>' : t.state === 'glass' ? icon('zap', 'icon st st--glass') : t.state === 'held' ? icon('lock', 'icon st st--held') : '';
+const tabIcon = t => +TABOPT.icons ? icon(TAB_ICON[t.kind] || 'folder') : '';
+function tabText(t) { const ref = `<span class="ref">${esc(t.ref)}</span>`, sub = t.sub ? `<span class="reg">${esc(t.sub)}</span>` : ''; if (TABOPT.label === 'ref') return ref; if (TABOPT.label === 'reg') return t.sub ? `<span class="ref">${esc(t.sub)}</span>` : ref; return ref + sub; }
+const menuItems = list => list.map(t => `<a href="#${t.route}" data-id="${t.id}">${tabIcon(t)}<span>${esc(t.ref)}${t.sub ? ' · ' + esc(t.sub) : ''}</span>${tabGlyph(t)}</a>`).join('');
 workspaceTabs = function (path) {
-  const all = openTabs(); if (!all.length) return '';
-  const max = 6, shown = all.slice(0, max), more = all.slice(max);
-  const st = t => t.state === 'dirty' ? '<i class="st st--dirty" title="Unsaved changes"></i>' : t.state === 'glass' ? icon('zap', 'icon st st--glass') : t.state === 'held' ? icon('lock', 'icon st st--held') : '';
-  const tab = t => `<a class="workspace-tab" href="#${t.route}" ${path === t.route ? 'aria-current="page"' : ''} data-id="${t.id}">${icon(TAB_ICON[t.kind])}<span class="ref">${esc(t.ref)}</span>${t.sub ? `<span class="sub">${esc(t.sub)}</span>` : ''}${st(t)}<button type="button" class="tab-close" data-action="close-record" data-id="${t.id}" aria-label="Close ${attr(t.ref)}">${icon('x')}</button></a>`;
-  return `<nav class="workspace-tabs" aria-label="Open records">${shown.map(tab).join('')}${more.length ? `<details class="tabs-more"><summary>${more.length} more${icon('chevron-down')}</summary><div class="menu">${more.map(t => `<a href="#${t.route}" data-id="${t.id}">${icon(TAB_ICON[t.kind])}<span>${esc(t.ref)}${t.sub ? ' · ' + esc(t.sub) : ''}</span></a>`).join('')}</div></details>` : ''}</nav>`;
+  const all = openTabs(); const place = TABOPT.place; const cur = all.find(t => t.route === path);
+  if (place === 'rail') return '';
+  if (place === 'crumb') { if (!all.length && !cur) return ''; return `<nav class="workspace-tabs" data-place="crumb" aria-label="Open records"><div class="crumb"><a href="#/cases">Cases</a>${cur ? `<span class="sep">›</span><details class="crumb-menu"><summary>${tabIcon(cur)}${tabText(cur)}${tabGlyph(cur)}${icon('chevron-down')}</summary><div class="menu">${menuItems(all)}</div></details>` : all.length ? `<details class="crumb-menu"><summary><span class="ref">${all.length} open</span>${icon('chevron-down')}</summary><div class="menu">${menuItems(all)}</div></details>` : ''}${cur && all.length > 1 ? `<span class="count">${all.length} open</span>` : ''}</div></nav>`; }
+  if (!all.length && !+TABOPT.wc && !+TABOPT.open) return '';
+  const max = +TABOPT.max || Infinity, shown = all.slice(0, max), more = all.slice(max);
+  const wc = +TABOPT.wc ? `<a class="workspace-tab" href="#/" ${path === '/' ? 'aria-current="page"' : ''} data-id="wc">${tabIcon({ kind: 'wc' })}<span class="ref">Work Centre</span></a>` : '';
+  const open = +TABOPT.open ? `<button type="button" class="workspace-tab workspace-tab--open" data-action="palette" data-id="open">${tabIcon({ kind: 'open' })}<span class="ref">Open</span></button>` : '';
+  const tab = t => `<a class="workspace-tab" href="#${t.route}" ${path === t.route ? 'aria-current="page"' : ''} data-id="${t.id}">${tabIcon(t)}${tabText(t)}${tabGlyph(t)}<button type="button" class="tab-close" data-action="close-record" data-id="${t.id}" aria-label="Close ${attr(t.ref)}">${icon('x')}</button></a>`;
+  return `<nav class="workspace-tabs" data-place="${place}" data-density="${TABOPT.density}" data-close="${TABOPT.close}" aria-label="Open records">${wc}${shown.map(tab).join('')}${more.length ? `<details class="tabs-more"><summary>${more.length} more${icon('chevron-down')}</summary><div class="menu">${menuItems(more)}</div></details>` : ''}${open}</nav>`;
 };
 const shellWithTabs = shell;
-shell = function (path, page, opts) { let h = shellWithTabs(path, page, opts); if (!openTabs().length) h = h.replace('<div class="app-shell', '<div class="no-tabs app-shell'); return h; };
+shell = function (path, page, opts) { let h = shellWithTabs(path, page, opts); const cls = (!openTabs().length || TABOPT.place === 'rail') ? 'no-tabs ' : ''; h = h.replace('<div class="app-shell', `<div data-tabs-place="${TABOPT.place}" class="${cls}app-shell`); return h; };
+AFTER_RENDER.push((path, params) => {
+  if (params && params.tabopt && S._tabopt !== params.tabopt) { S._tabopt = params.tabopt; params.tabopt.split(',').forEach(kv => { const [k, v] = kv.split(':'); if (k in TABOPT_DEFAULT) TABOPT[k] = v; }); setTimeout(render, 0); return; }
+  document.body.dataset.tabsPlace = TABOPT.place;
+  const cases = document.querySelector('.app-rail .nav-link[href="#/cases"]'); if (!cases || TABOPT.place !== 'rail') return;
+  const all = openTabs(); if (!all.length) return;
+  cases.insertAdjacentHTML('afterend', `<div class="rail-open" id="railOpen">${all.map(t => `<a href="#${t.route}" ${path === t.route ? 'aria-current="page"' : ''} data-id="${t.id}">${tabIcon(t)}${tabText(t)}${tabGlyph(t)}<button type="button" class="tab-close" data-action="close-record" data-id="${t.id}" aria-label="Close ${attr(t.ref)}">${icon('x')}</button></a>`).join('')}</div>`);
+});
 ACTIONS['close-record'] = (el, e) => { if (e) { e.preventDefault(); e.stopPropagation(); } const id = el.dataset.id; const ent = tabEntry(id); S.openRecords = S.openRecords.filter(x => x !== id); persistOpen(); const { path } = parseRoute(); if (ent && path === ent.route) go('/'); else render(); };
-document.addEventListener('auxclick', e => { if (e.button !== 1) return; const t = e.target.closest('.workspace-tab[data-id]'); if (!t) return; ACTIONS['close-record']({ dataset: { id: t.dataset.id } }, e); });
+document.addEventListener('auxclick', e => { if (e.button !== 1) return; const t = e.target.closest('.workspace-tab[data-id], .rail-open a[data-id]'); if (!t || t.dataset.id === 'wc' || t.dataset.id === 'open') return; ACTIONS['close-record']({ dataset: { id: t.dataset.id } }, e); });
 const MOCK_TABS = ['c99', 'c1', 't2', 'm4', 'c5', 'u1', 'ic1', 'c3', 'c7'];
 ACTIONS['mock-tabs'] = el => { const n = +el.dataset.n; S.openRecords = MOCK_TABS.slice(0, n); S.tabState = n > 1 ? { c1: 'glass', c5: 'held' } : {}; persistOpen(); render(); };
+ACTIONS['mock-tabopt'] = el => { const [k, v] = el.dataset.o.split(':'); TABOPT[k] = v; try { localStorage.setItem('v26.tabopt', JSON.stringify(TABOPT)); } catch {} render(); };
+ACTIONS['mock-tabopt-reset'] = () => { TABOPT = Object.assign({}, TABOPT_DEFAULT); try { localStorage.removeItem('v26.tabopt'); } catch {} render(); };
+const TAB_OPTION_ROWS = [
+  ['Tab layout', [['place', 'fused', 'Fused strip'], ['place', 'band', 'Grey band'], ['place', 'rail', 'Rail list'], ['place', 'crumb', 'Breadcrumb']]],
+  ['Tab label', [['label', 'both', 'Ref + reg'], ['label', 'ref', 'Ref only'], ['label', 'reg', 'Reg only'], null, ['icons', '1', 'Icons'], ['icons', '0', 'No icons'], null, ['density', 'regular', 'Regular'], ['density', 'compact', 'Compact']]],
+  ['Tab rules', [['max', '4', 'Max 4'], ['max', '6', 'Max 6'], ['max', '8', 'Max 8'], ['max', '0', 'No limit'], null, ['glyphs', '1', 'State glyphs'], ['glyphs', '0', 'No glyphs'], null, ['close', 'hover', '× on hover'], ['close', 'always', '× always'], null, ['wc', '1', 'Work Centre tab'], ['open', '1', '+ Open tab']]],
+];
+function tabOptionRows(mk) { return TAB_OPTION_ROWS.map(([label, items]) => mockRow(label, items.map(it => it ? mk(it) : '<span class="sep"></span>').join('') + (label === 'Tab rules' ? '<span class="sep"></span>' + mockBtn('Reset', false, 'mock-tabopt-reset') : ''))).join(''); }
 const renderMockBase = renderMock;
-renderMock = function (path) { renderMockBase(path); const el = document.getElementById('mock'); if (!el) return; const n = S.openRecords.length; el.insertAdjacentHTML('beforeend', mockRow('Tabs', [0, 1, 4, 9].map(k => mockBtn(k === 0 ? 'None' : k + ' open', n === k, 'mock-tabs', { n: k })).join(''))); };
+renderMock = function (path) { renderMockBase(path); const el = document.getElementById('mock'); if (!el) return; const n = S.openRecords.length;
+  el.insertAdjacentHTML('beforeend', mockRow('Tabs', [0, 1, 4, 9].map(k => mockBtn(k === 0 ? 'None' : k + ' open', n === k, 'mock-tabs', { n: k })).join('')) + tabOptionRows(([k, v, label]) => { const on = (k === 'wc' || k === 'open') ? !!+TABOPT[k] : String(TABOPT[k]) === v; const val = (k === 'wc' || k === 'open') ? (on ? '0' : '1') : v; return mockBtn(label, on, 'mock-tabopt', { o: `${k}:${val}` }); })); };
 
 /* ---- v26: image viewer (real stage, navigation across the record's images) ---- */
 const PREVIEW_CACHE = {};

diff --git a/case-workspace-v25-mockup/v26-notes.md b/case-workspace-v25-mockup/v26-notes.md
@@ -174,6 +174,25 @@ one thing with the record beneath it.
 Mockup strip row `Tabs` (or `?tabs=1|4|9`) seeds one, four or nine open
 records; the shell's row also offers None. Shots `34`, `35`, `38`, `39`.
 
+Every decision in the strip is a variable on the mockup strip, on both files,
+remembered per browser and shared between them (`?tabopt=key:value,...`):
+
+| Row | Variable | Options | Default |
+| --- | --- | --- | --- |
+| Tab layout | `place` | Fused strip · Grey band (the original band with bordered tabs, card keeps its edge) · Rail list (under Cases in the rail, no strip) · Breadcrumb (Cases › current ⌄ with the set in a menu) | Fused |
+| Tab label | `label` | Ref + reg · Ref only · Reg only | Ref + reg |
+| Tab label | `icons` | Icons · No icons | Icons |
+| Tab label | `density` | Regular (34px) · Compact (28px) | Regular |
+| Tab rules | `max` | Max 4 · 6 · 8 · No limit, rest in the "more" menu | 6 |
+| Tab rules | `glyphs` | State glyphs · No glyphs | On |
+| Tab rules | `close` | × on hover · × always | Hover |
+| Tab rules | `wc` | Work Centre tab on or off | Off |
+| Tab rules | `open` | "+ Open" tab on or off | Off |
+
+Reset returns to the defaults. Shots `40` (band with Work Centre and Open),
+`41` and `44` (rail list, both files), `42` and `45` (breadcrumb, both
+files), `43` (compact, reg only, no icons, × always, max 8), `46` (the strip).
+
 ## Image viewer
 
 Images now open in a viewer rather than a toast. On the Case record the viewer
@@ -245,7 +264,8 @@ Everything in `v25-notes.md` A–F still stands. New:
 - **O. Damage clicker.** Pick one of Plan, Elevations or Dial for Stage 2
   (see § Damage clicker). Only one ships; the strip switch is mockup-only.
 - **P. Working set.** Open records only, fused into the record, six then a
-  menu, persisted per browser. Confirm, or ask for the rail list instead.
+  menu, persisted per browser. Every variable is on the strip; pick the
+  combination for Stage 2 (see the table under § Working set).
 - **Q. Viewer tagging.** The viewer toggles report inclusion but not the tag;
   tags stay in Files (K). Confirm, or add the tag control to the viewer.
 

diff --git a/case-workspace-v25-mockup/discussion-log.md b/case-workspace-v25-mockup/discussion-log.md
@@ -228,7 +228,10 @@ fake Open tab, with a rail list or a breadcrumb menu as cheaper alternatives.
 "Put your good ideas in" — the fused working set was built across both files
 and persisted between them. "Also make the image viewer work" — the toast was
 replaced by a real viewer on both files, with synthetic images since the mockup
-has no files behind it.
+has no files behind it. "Actually put all the options in on the chooser
+widget" — layout (fused, band, rail list, breadcrumb), label, icons, density,
+visible count, glyphs, close behaviour, Work Centre and Open tabs became
+variables on the strip of both files.
 
 ## Outstanding
 
